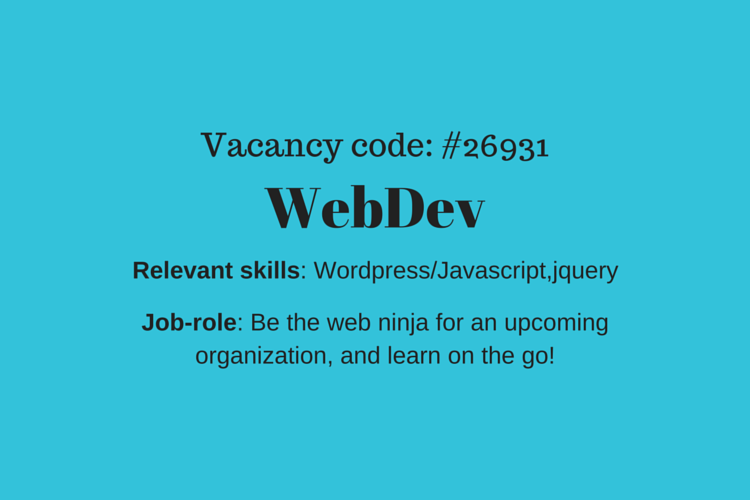
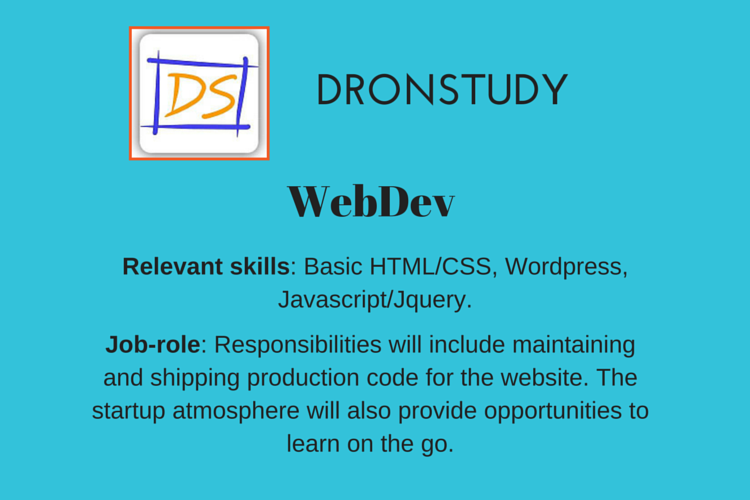
Modified the job board by adding the organization names in the listings

diff --git a/templates/jobs.html b/templates/jobs.html
@@ -113,9 +113,7 @@
         <div class="row text-center">
             <div class="col-md-8 col-md-offset-2 col-sm-8 col-sm-offset-2">
                 <h2 style = "font-family:Oswald">JOB BOARD</h2>
-                <h4>All the part-time jobs listed currently are for <strong>Surat region only.</strong></h4>
-                <h4>The vacancy codes correspond to various organizations currently listed with us.</h4>
-                <h4>To apply, send your resume/info along with the concerned job-code listed below to</h4>
+                <h4>To apply, send your resume/info along with the concerned job description and organization name listed below to</h4>
                 <h4><strong>skifer.india@gmail.com</strong></h4>
             </div>
 
@@ -138,7 +136,7 @@
         <div class="row text-center" id="portfolio-div">
 
             <div class="col-md-4 col-sm-4 technical">
-                 <!-- Just pass categories name in to the divs to make it in that category ( for ex: this is of html category) -->
+                 <!-- Just pass categories name in to the divs to make it in that category ( for ex: this is of technical category) -->
 
 
                 <a class="fancybox-media" title="Skifer Jobs" href="{%static './img/vacancy1.png'%}">
